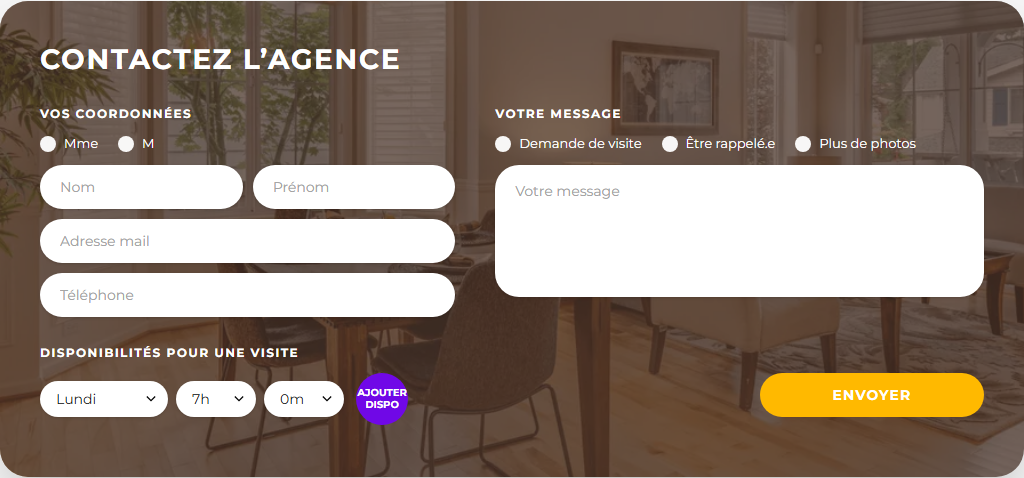
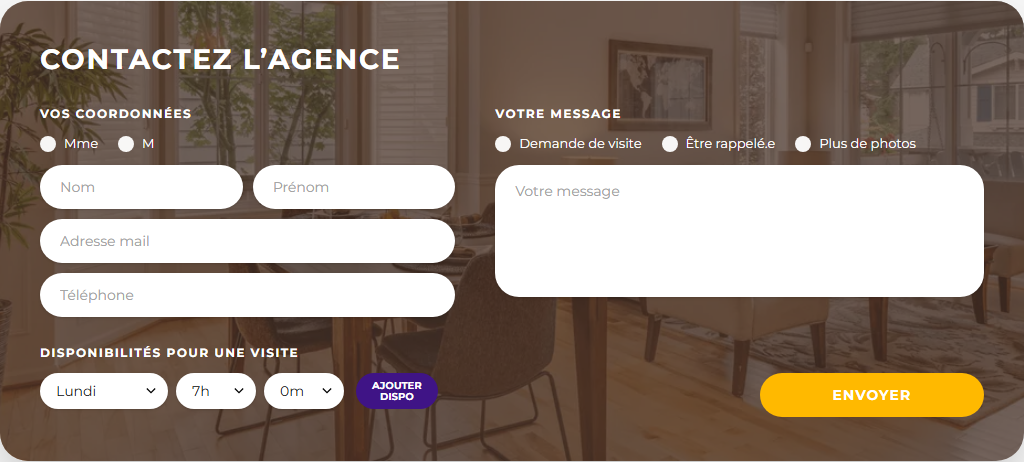
Refresh screenshots and correct the README
The screenshots predated the button fix, so the README still showed the
old circular "ajouter dispo" and a confirmation screen without its link.
Retaken against the current build; the /demandes capture uses demo data.

Also correct a claim that did not match the code: only the request insert
uses execute(). The VALUES ? and IN (?) lists go through query(), which
escapes rather than prepares — safe, but not the same thing.

Answer the "new tools" question with the connection() / dynamic change,
and the difficulty question with measuring the mockup rather than
eyeballing it.

diff --git a/README.md b/README.md
@@ -97,7 +97,7 @@ La maquette est pensée pour le desktop ; les deux colonnes s’empilent sous 10
 | **Zod** | 4 | Un schéma unique décrit les règles métier ; il valide côté client **et** côté serveur, donc les deux ne peuvent pas diverger. |
 | **@hookform/resolvers** | 5 | Fait le pont entre Zod et React Hook Form, pour ne pas réécrire les règles de validation dans le formulaire. |
 | **MySQL** (Docker) | 8.4 | La base **fournie avec le dépôt** (`docker-compose.yml`). Le sujet laisse le choix de la base ; utiliser celle qui est mise à disposition évite au correcteur d’installer quoi que ce soit d’autre. |
-| **mysql2** | 3.23 | Driver MySQL de référence pour Node : requêtes préparées (donc à l’abri des injections SQL), API `promise` et gestion d’un pool de connexions. |
+| **mysql2** | 3.23 | Driver MySQL de référence pour Node : placeholders `?` (donc à l’abri des injections SQL), API `promise` et gestion d’un pool de connexions. |
 | **Montserrat** (next/font) | — | Sans-serif géométrique le plus proche de la typo de la maquette, chargée en self-host par `next/font` (pas de requête vers Google). |
 
 ### Choix structurants
@@ -117,9 +117,12 @@ La maquette est pensée pour le desktop ; les deux colonnes s’empilent sous 10
   1-N (`availabilities.request_id`, avec `ON DELETE CASCADE`), écrite dans la même
   transaction que la demande. L’agence peut ainsi filtrer les demandes par créneau, ce
   qu’un JSON aplati dans une colonne interdirait.
-- **Requêtes préparées et `utf8mb4`.** Toutes les valeurs passent par des requêtes
-  préparées (`?`), jamais par de la concaténation de chaînes. Les tables sont en
-  `utf8mb4`, vérifié : « Lefèvre » et « J’aimerais… » se relisent à l’identique.
+- **Aucune concaténation SQL, et `utf8mb4`.** Toute valeur passe par un placeholder `?` :
+  `execute()` (vraies requêtes préparées côté MySQL) pour l’insertion d’une demande, et
+  `query()` (échappement par le driver) aux deux endroits où MySQL n’accepte pas de
+  paramètre préparé — la liste `VALUES ?` et le `IN (?)`. Dans les deux cas, rien n’est
+  concaténé dans la requête. Les tables sont en `utf8mb4`, vérifié : « Lefèvre » et
+  « J’aimerais… » se relisent à l’identique.
 - **Accessibilité.** Les libellés de la maquette ne vivent que dans les *placeholders* ;
   j’ai gardé de vrais `<label>` (en `sr-only`), des `<fieldset>/<legend>` pour les
   groupes de radios, `aria-invalid` + `role="alert"` sur les erreurs, et des contrôles
@@ -144,8 +147,11 @@ npm run dev
 
 L’application est disponible sur **http://localhost:3000**.
 
-Les tables sont créées automatiquement au premier envoi (`CREATE TABLE IF NOT EXISTS`) :
-aucune migration à lancer. Les données MySQL vivent dans `./mysql`, ignoré par Git.
+Les tables sont créées automatiquement à la première utilisation (`CREATE TABLE IF NOT
+EXISTS`) : aucune migration à lancer. Les données MySQL vivent dans `./mysql`, ignoré par
+Git.
+
+Deux pages : le formulaire sur `/`, et `/demandes` pour relire ce qui a été enregistré.
 
 Pour tout arrêter :
 
@@ -256,6 +262,12 @@ pris du temps :
   au-dessus de la photo. Ce sont ces détails qui font qu’une intégration ressemble ou non
   à la maquette.
 
+La leçon que j’en retire : mesurer plutôt qu’estimer à l’œil. J’avais dessiné le bouton
+« Ajouter dispo » comme un cercle ; en relevant les pixels de la maquette, c’est une
+pastille de 82×30, exactement la hauteur des sélecteurs voisins — la règle n’était donc pas
+« 30 px » mais « la hauteur des sélecteurs ». Même chose pour son violet, prélevé à la
+pipette (`#3f1486`) au lieu d’être approché avec la palette Tailwind.
+
 La maquette laisse aussi des zones d’ombre (quels jours ? quelle amplitude horaire ?) ;
 j’ai tranché en me mettant à la place de l’agence et je l’ai documenté ci-dessus.
 
@@ -274,6 +286,13 @@ nouveau à chaque modification de fichier jusqu’à saturer MySQL.
 J’ai aussi découvert quelques évolutions de **Next.js 16** par rapport aux versions que je
 connaissais : l’App Router et les Route Handlers, et `next/font` qui héberge la police
 localement.
+
+Le cas le plus instructif est la page `/demandes`. Le réflexe que j’avais était
+`export const dynamic = "force-dynamic"` pour forcer une lecture à chaque requête ; la
+documentation de la version installée montre que cette option disparaît (retirée avec les
+Cache Components) au profit de `connection()`. Sans ça, la page aurait été *prérendue au
+build* : elle aurait affiché en ligne une liste vide, figée, quoi qu’on envoie. La sortie
+de `npm run build` le confirme — `/demandes` est bien marquée `ƒ (Dynamic)`.
 
 Côté Docker, j’ai appris l’intérêt du couple `healthcheck` / `docker compose up --wait` :
 sans lui, MySQL 8.4 met une vingtaine de secondes avant d’accepter la moindre connexion,
